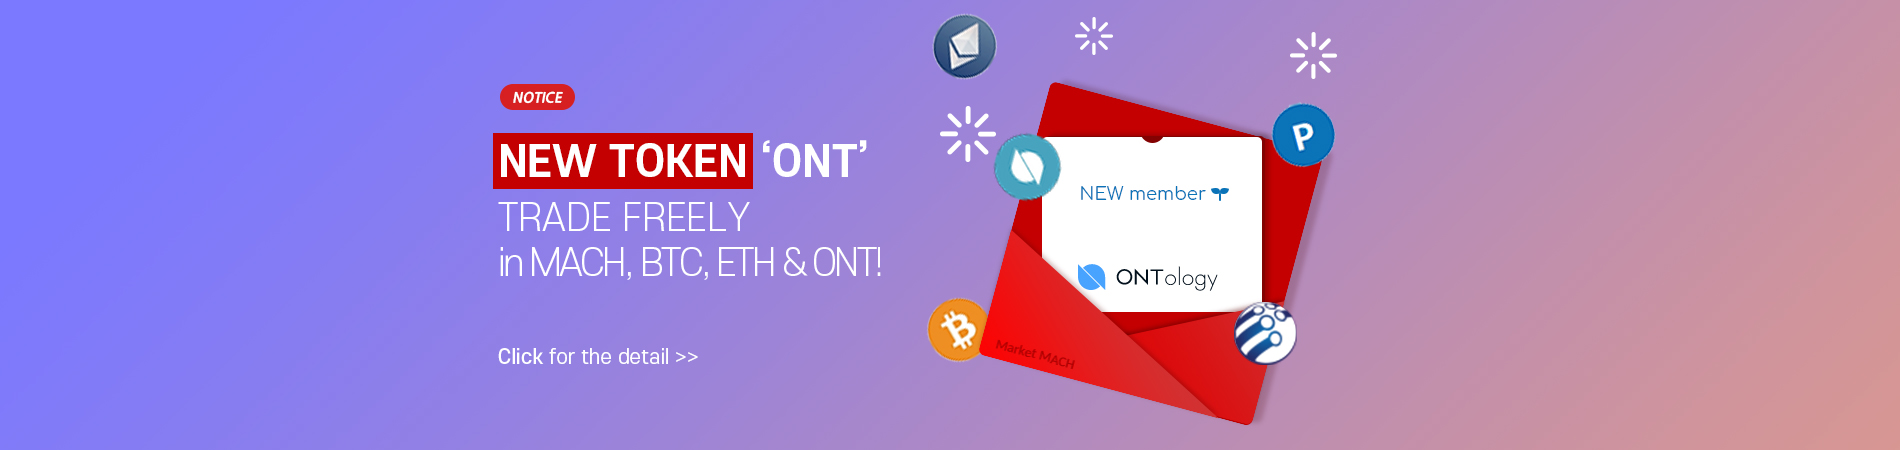
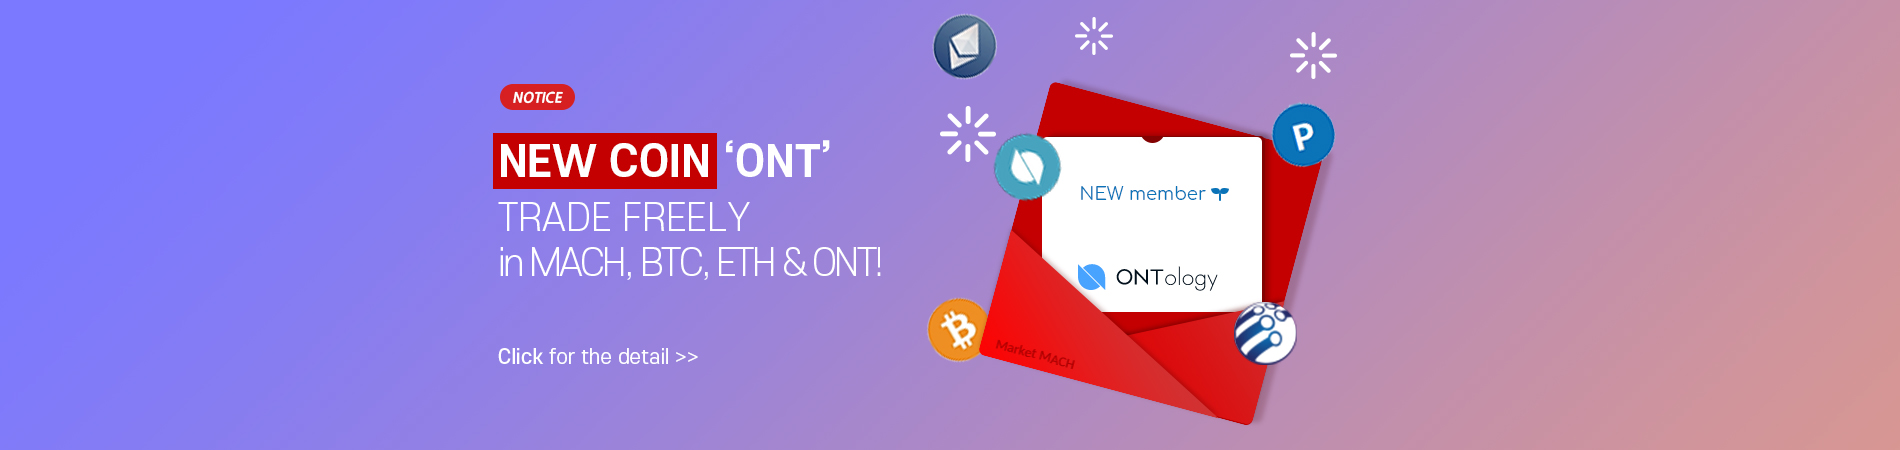
[메인]배너에 Token을 Coin으로 변경

Changed region(s): [[0.3105, 0.28, 0.4658, 0.4356]]

diff --git a/views/v2_en/main/index.html b/views/v2_en/main/index.html
@@ -445,7 +445,7 @@
                 <%# nav-visual-length의 숫자 배너 length에 맞게 적을 것 %>
                 <div class="nav_slick_visual" id="navSlcikVisual" nav-visual-length="3">
                     <div class="nav_text_box on"><div class="nav_text_box_inner"><em>Grand Open</em></div></div>
-                    <div class="nav_text_box"><div class="nav_text_box_inner"><em>New Token 'ONT'</em></div></div>
+                    <div class="nav_text_box"><div class="nav_text_box_inner"><em>New Coin 'ONT'</em></div></div>
                     <div class="nav_text_box"><div class="nav_text_box_inner"><em>MACH ADVENTURE</em></div></div>
                     <!-- <div class="nav_text_box"><div class="nav_text_box_inner"><em>Free of Charge</em></div></div> -->
                 </div>
